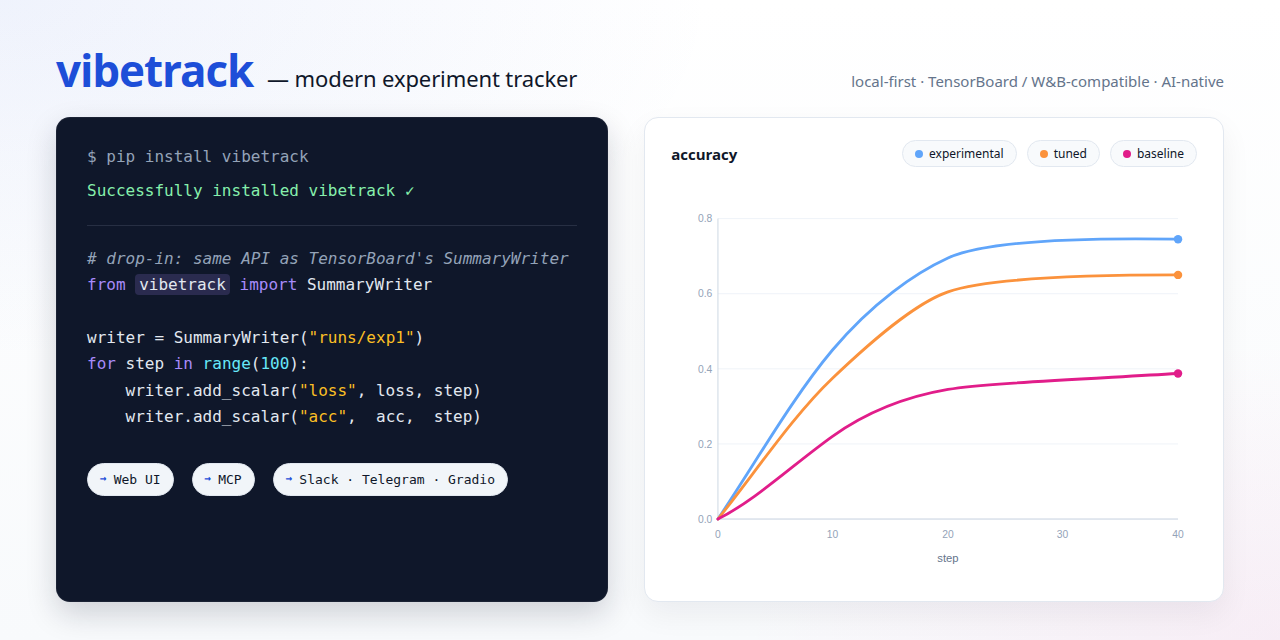
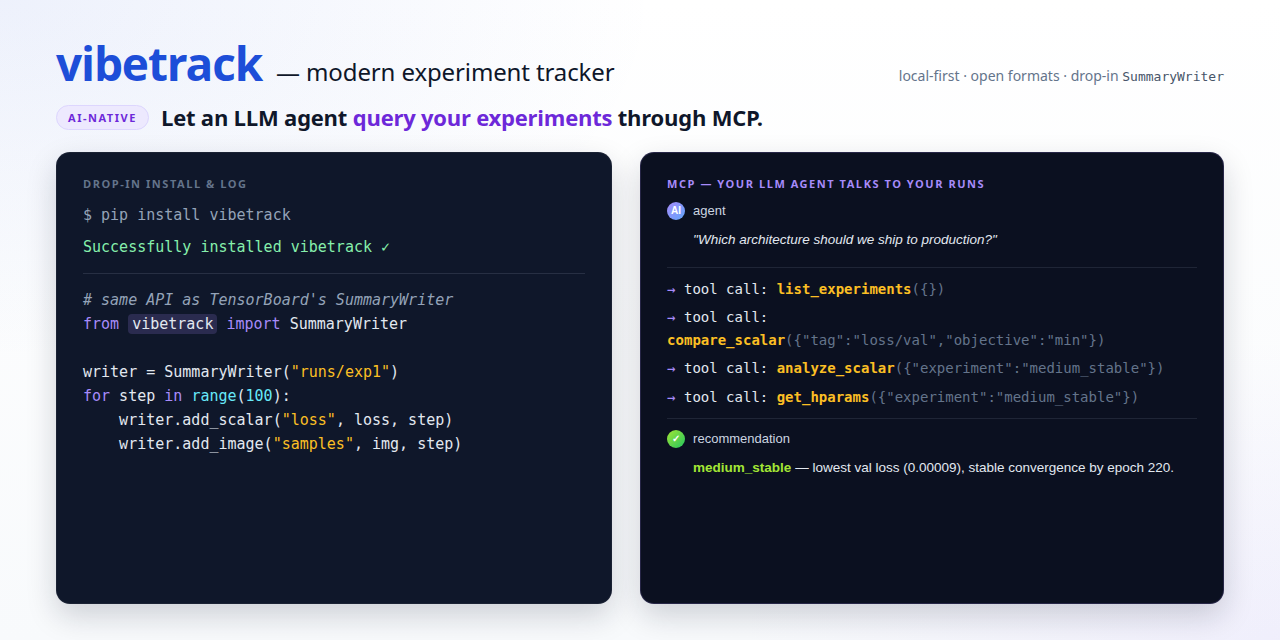
release prep: PEP 639 license, ship docs in sdist, absolute README links
- pyproject.toml: adopt PEP 639 license metadata (`license = "Apache-2.0"`,
  `license-files = ["LICENSE"]`, drop the now-redundant Apache classifier);
  bump build-system requirement to setuptools>=77; drop W&B from description
  to match README and social preview.
- MANIFEST.in: graft docs/ so the sdist ships the user-facing docs.
- README: rewrite relative links to absolute github.com URLs so they
  resolve on the PyPI project page (PyPI does not serve repo files).
- tests/test_config.py: align gradio.share assertions with the intentional
  True default introduced in 0b5eb57.
- docs/social-preview.png: refresh — MCP/AI-native angle, drop W&B.

diff --git a/tests/test_config.py b/tests/test_config.py
@@ -36,7 +36,7 @@ class TestDefaults:
         assert cfg["web"]["auto_refresh"] == 5
         assert cfg["web"]["raw_scalar_opacity"] == 0.17
         assert cfg["web"]["x_axis_mode"] == "step"
-        assert cfg["gradio"]["share"] is False
+        assert cfg["gradio"]["share"] is True
 
 
 class TestSaveAndLoad:
@@ -67,7 +67,7 @@ class TestSaveAndLoad:
         assert loaded["smooth_weight"] == 0.6
         assert loaded["web"]["theme"] == "light"
         assert loaded["web"]["raw_scalar_opacity"] == 0.17
-        assert loaded["gradio"]["share"] is False
+        assert loaded["gradio"]["share"] is True
 
     def test_viewer_specific_section(self, tmp_path):
         save_config(

diff --git a/README.md b/README.md
@@ -2,7 +2,7 @@
 
 Modern experiment tracking.
 
-![vibetrack showcase](docs/showcase.gif)
+![vibetrack showcase](https://raw.githubusercontent.com/chroneus/vibetrack/main/docs/showcase.gif)
 
 Key features:
 
@@ -13,7 +13,7 @@ Key features:
 - Use a rich UI to show, hide, delete, and customize runs.
 - TensorBoard SummaryWriter compatible drop-in APIs.
 - Query results through the MCP server.
-- Fast scalar logging; see the [benchmark report](docs/BENCHMARK.md).
+- Fast scalar logging; see the [benchmark report](https://github.com/chroneus/vibetrack/blob/main/docs/BENCHMARK.md).
 
 
 
@@ -39,7 +39,7 @@ for step in range(100):
     writer.add_scalar("acc", step / 100, step)
 writer.close()
 ```
-See [API.md](docs/API.md) for SummaryWriter and module-level logging examples.
+See [API.md](https://github.com/chroneus/vibetrack/blob/main/docs/API.md) for SummaryWriter and module-level logging examples.
 
 ### Launch the dashboard
 
@@ -59,7 +59,7 @@ writer.to("remote", url="http://server:8080", token="devtoken")
 writer.add_scalar("loss", 0.5, step=0).to("telegram")
 ```
 
-See [VIEWERS.md](docs/VIEWERS.md) for web, console, Slack, Telegram, Gradio,
+See [VIEWERS.md](https://github.com/chroneus/vibetrack/blob/main/docs/VIEWERS.md) for web, console, Slack, Telegram, Gradio,
 Jupyter, custom viewers, remote forwarding, credentials, and HTTP ingest.
 
 # vibetrack Architecture
@@ -153,7 +153,7 @@ writer = SummaryWriter("runs/exp1", project_folder="my_project")
 writer.to("remote", url="http://server:8080", token="devtoken")
 ```
 
-See [VIEWERS.md](docs/VIEWERS.md#remote-event-forwarding) for remote forwarding
+See [VIEWERS.md](https://github.com/chroneus/vibetrack/blob/main/docs/VIEWERS.md#remote-event-forwarding) for remote forwarding
 and direct HTTP ingest.
 
 ## How do I use separate databases on one machine?
@@ -214,7 +214,7 @@ pip install vibetrack[all]
 vibetrack --viewer mcp --project-folder my_project/
 ```
 
-See [MCP.md](docs/MCP.md) for MCP endpoints, tools, resources, and agent usage.
+See [MCP.md](https://github.com/chroneus/vibetrack/blob/main/docs/MCP.md) for MCP endpoints, tools, resources, and agent usage.
 
 ## What CLI commands are available?
 
